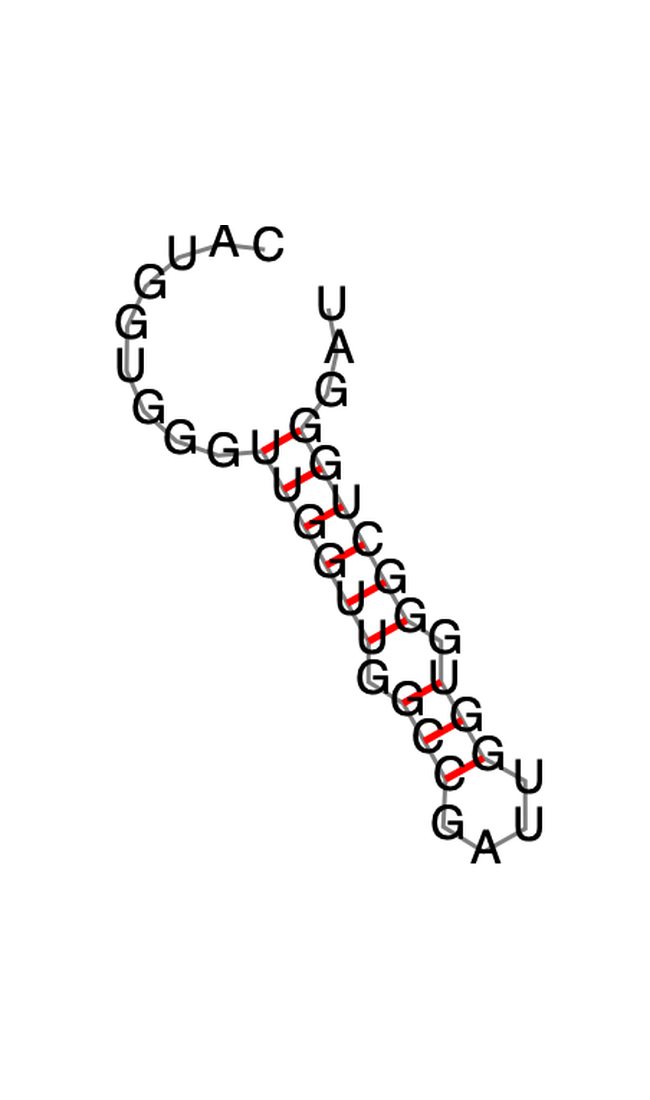
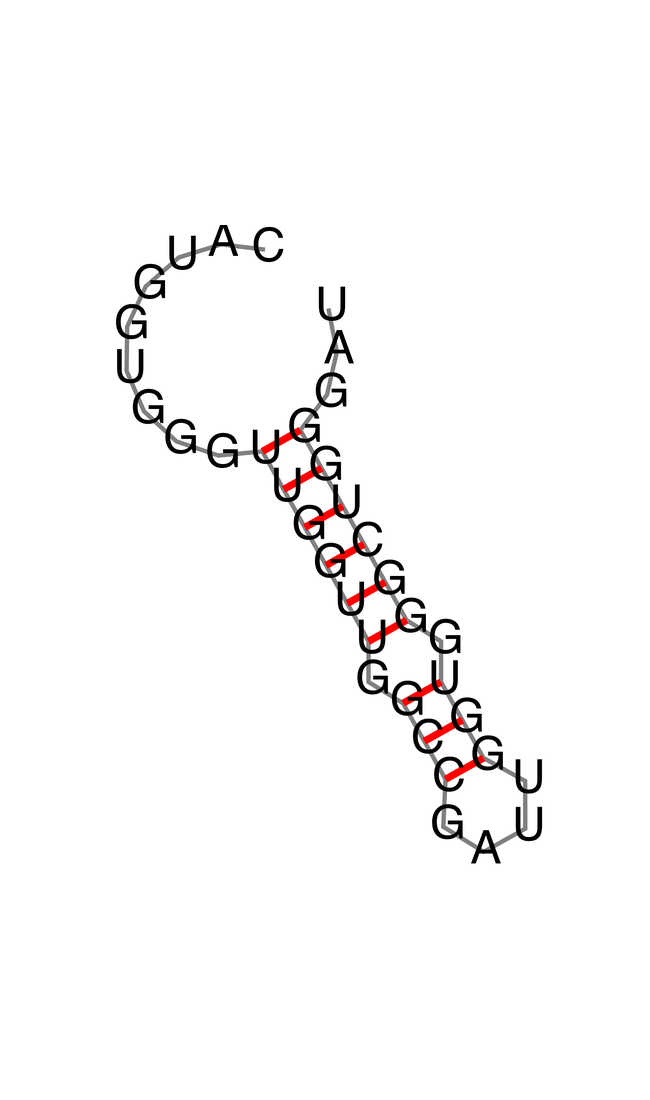
Updated figures

diff --git a/scripts/export_example_structure.py b/scripts/export_example_structure.py
@@ -31,6 +31,8 @@ MIN_PAIRED_BASES = 4
 MFE_PERCENTILE_LOW = 0.10
 MFE_PERCENTILE_HIGH = 0.25
 VALID_RNA_BASES = frozenset("AUCG")
+PNG_DPI = 600
+SVG_RASTER_BASE_DPI = 96.0
 
 SELECTION_RULE = (
     "Example folded unadapted RNAGenesis sequence selected from the Stage 1 poster-config "
@@ -407,12 +409,13 @@ def rasterize_viennarna_svg_with_pil(svg_path: Path) -> Any:
     return image
 
 
-def svg_to_png_bytes(svg_path: Path) -> bytes:
+def svg_to_png_bytes(svg_path: Path, canvas_width: int, canvas_height: int) -> bytes:
     """Convert SVG to PNG bytes using the first available converter."""
+    render_width = int(max(canvas_width, canvas_height) * PNG_DPI / SVG_RASTER_BASE_DPI)
     try:
         import cairosvg  # noqa: PLC0415
 
-        return cairosvg.svg2png(url=str(svg_path))
+        return cairosvg.svg2png(url=str(svg_path), output_width=render_width)
     except ImportError:
         pass
 
@@ -424,13 +427,14 @@ def svg_to_png_bytes(svg_path: Path) -> bytes:
             tmp_png_path = Path(tmp_png.name)
         try:
             if command_name == "rsvg-convert":
-                cmd = [converter, str(svg_path), "-o", str(tmp_png_path)]
+                cmd = [converter, "-w", str(render_width), str(svg_path), "-o", str(tmp_png_path)]
             else:
                 cmd = [
                     converter,
                     str(svg_path),
                     "--export-type=png",
                     f"--export-filename={tmp_png_path}",
+                    f"--export-width={render_width}",
                 ]
             completed = subprocess.run(cmd, capture_output=True, text=True, check=False)
             if completed.returncode == 0 and tmp_png_path.is_file():
@@ -653,7 +657,7 @@ def main() -> int:
     sanitize_viennarna_svg(svg_path)
 
     try:
-        png_bytes = svg_to_png_bytes(svg_path)
+        png_bytes = svg_to_png_bytes(svg_path, args.max_width, args.max_height)
     except Exception as exc:
         raise SystemExit(
             "ViennaRNA SVG was written, but PNG conversion failed. "
@@ -669,7 +673,7 @@ def main() -> int:
         canvas_height=args.max_height,
     )
     output_dir.mkdir(parents=True, exist_ok=True)
-    poster_image.save(png_path, format="PNG")
+    poster_image.save(png_path, format="PNG", dpi=(PNG_DPI, PNG_DPI))
 
     write_metadata(
         selected=selected,
